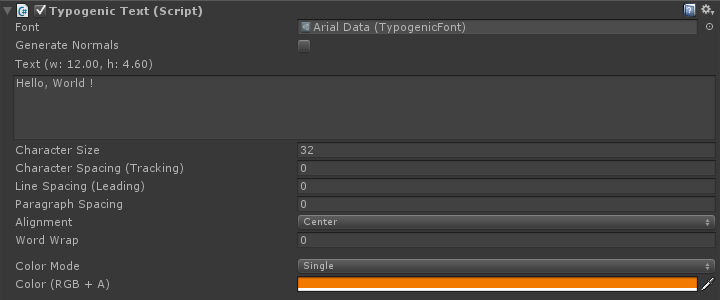
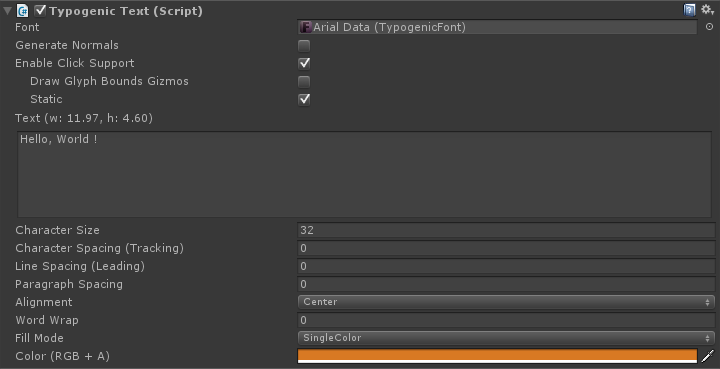
Doc / changelog / readme update

diff --git a/Typogenic/Documentation/index.html b/Typogenic/Documentation/index.html
@@ -162,7 +162,10 @@
 
 				<p>All the settings in this component are, of course, available via scripting as well.</p>
 
-				<div class="alert alert-warning">If you don't need lighting on your text, disable <strong>Generate Normals</strong> to save some memory at runtime.</div>
+				<div class="alert alert-warning">
+					<p>If you don't need lighting on your text, disable <strong>Generate Normals</strong> to save some memory at runtime.</p>
+					<p>If you don't need <strong>Click Support</strong>, disable it to improve performances. If you need click support and your text object isn't going to be moved/rotated around the scene, make sure <strong>Static</strong> is checked to avoid unnecessary bounds calculations.</p>
+				</div>
 
 				<p class="text-center"><a href="#wrap">Back to top</a></p>
 

diff --git a/README.md b/README.md
@@ -17,8 +17,8 @@ Pull requests are welcomed !
 Contributors
 ------------
 
-  - StarManta
   - Michael McCollum (gnustoboz)
+  - StarManta
 
 License
 -------
